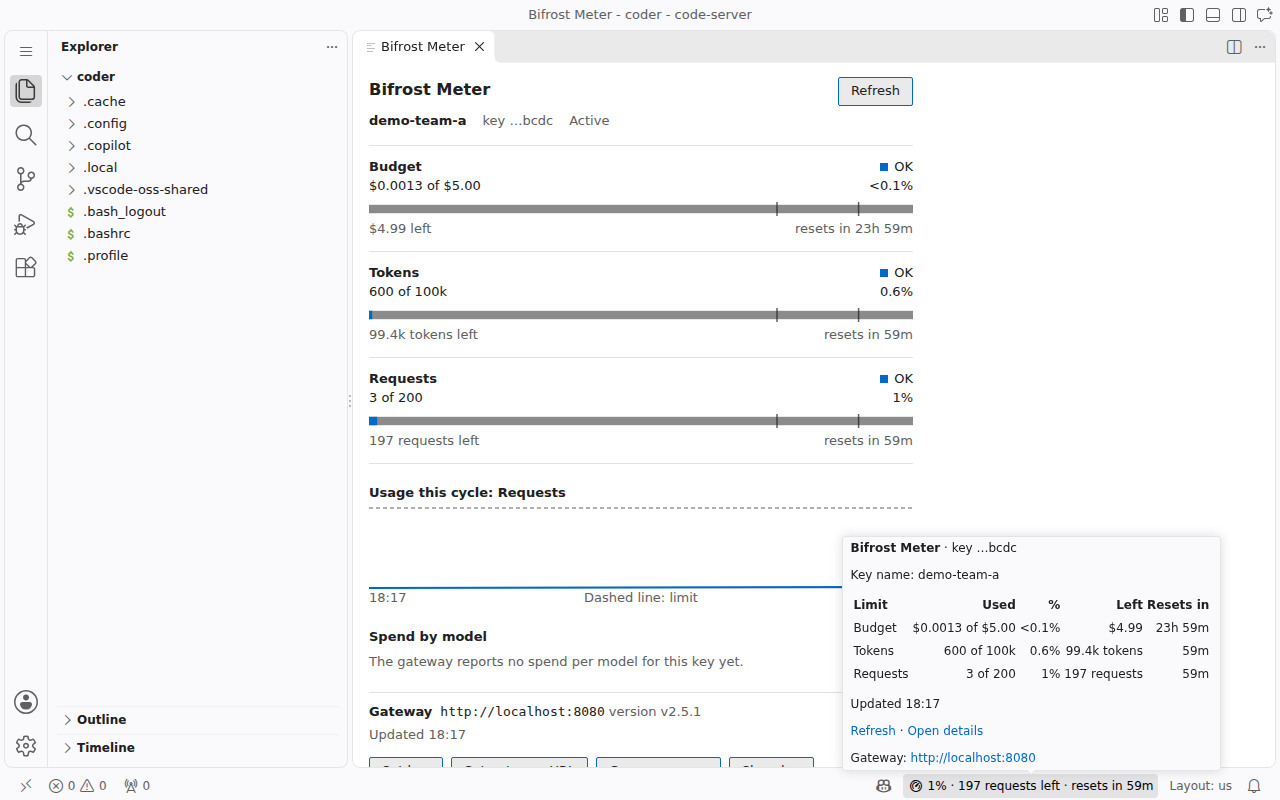
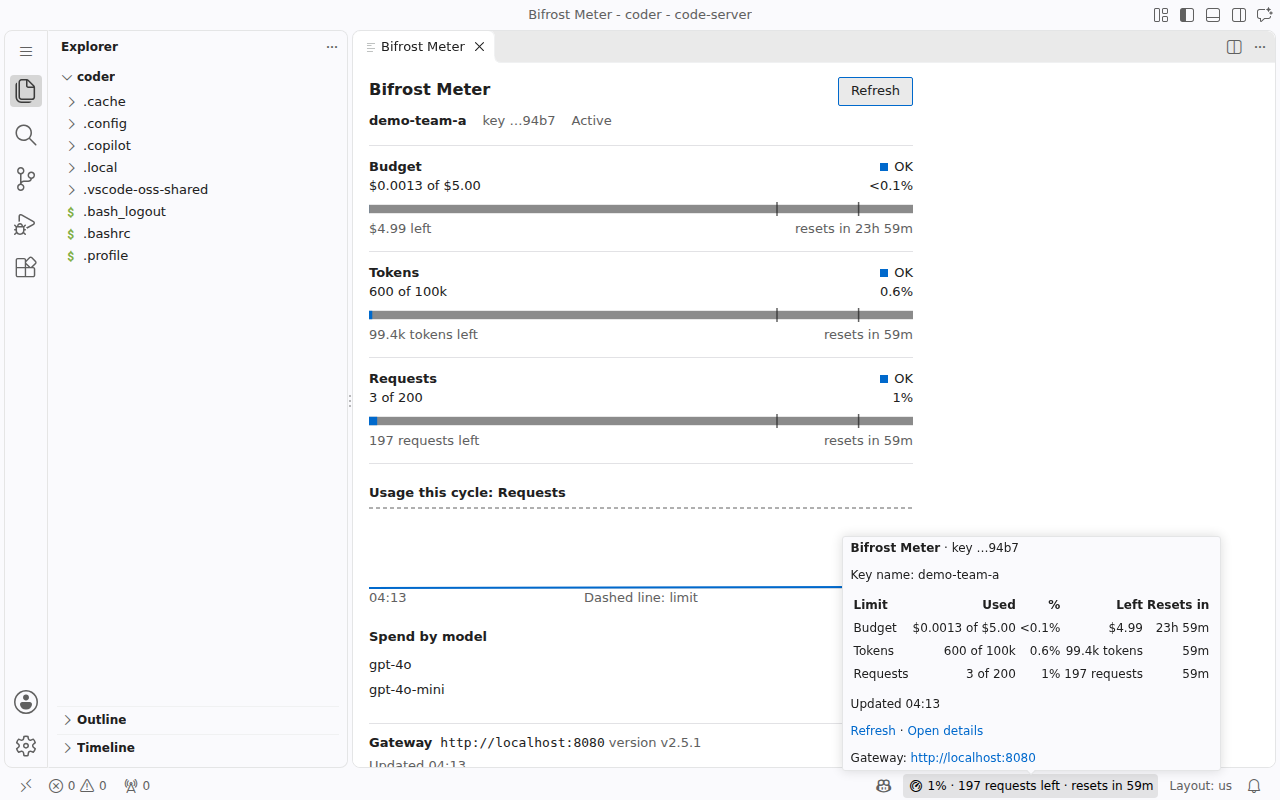
Set version 0.1.1 and record the unit, contract, end-to-end and demo runs

Changed region(s): [[0.2812, 0.8125, 0.5938, 0.9688], [0.4062, 0.125, 0.4688, 0.1562]]

diff --git a/docs/TEST-RESULTS.md b/docs/TEST-RESULTS.md
@@ -18,18 +18,18 @@ container: `npm ci`, lint, type check, unit tests, build, `npm run package`.
 Lint, type check, unit tests (vitest), production build and `.vsix` package, with no Docker and no network. Runs on every
 change.
 
-- Date: 2026-11-14
-- Result: **352 passed, 0 failed** in 19 test files; `bifrost-meter.vsix` 244.9 KB (10 files), version 0.1.0
+- Date: 2026-11-15
+- Result: **378 passed, 0 failed** in 19 test files; `bifrost-meter.vsix` 245.3 KB (10 files), version 0.1.1
 
 ## Contract (`npm run test:contract`)
 
 Runs the extension's own quota client, and the bundled MCP server through the official SDK client over stdio, against the pinned official gateway image and the mock upstream from `demo/`, on a
 free `127.0.0.1` port, then removes the stack (`docker compose down -v`). Without Docker the suite is skipped with a message.
 
-- Date: 2026-11-14
+- Date: 2026-11-15
 - Gateway: `maximhq/bifrost@sha256:5ec9873acaf1687556b6e4dd854b92b539d9debf87a5a683b66338648b84d3c8` (`v2.5.1`)
-- Result: **10 passed, 0 failed**; 64 s in total for the v0.1.0 release check, including the 200-read latency test below
-  (earlier runs: 57 s, 67 s and 71 s, of which about 41 s was starting and seeding the gateway)
+- Result: **11 passed, 0 failed**; 56 s in total for the v0.1.1 check, including the 200-read latency test below
+  (earlier runs: 57 s, 64 s, 67 s and 71 s, of which about 40 s was starting and seeding the gateway)
 
 | Test | Result |
 |---|---|
@@ -40,6 +40,7 @@ free `127.0.0.1` port, then removes the stack (`docker compose down -v`). Withou
 | 403 "expired" for a key past its expiry | passed |
 | Budget, token and request counters move after 3 mock requests; spend per model shows a positive amount for each model used | passed |
 | After an admin override (3 on a budget of 2) the meter's budget limit is the enforced 5, while `max_limit` stays 2 | passed |
+| Calendar-aligned monthly and quarterly keys report `last_reset` on the UTC boundary, and the meter's next reset is the next boundary; a rolling monthly key resets 30 days after `last_reset` | passed |
 | MCP: `tools/list` shows `get_budget_status`; `tools/call` returns the same limits as the quota endpoint for the same key, without the key in the result | passed |
 | MCP: an unknown key gives a tool error ("Key rejected"), not a crash | passed |
 | 200 sequential quota reads all return 200 (latency below) | passed |
@@ -53,6 +54,7 @@ same pinned gateway and host as the contract run above (2026-11-14, a shared bui
 |---|---|---|---|
 | 200 | 6.9 ms | 12.2 ms | 96.2 ms |
 | 200 (v0.1.0 release check) | 7.1 ms | 51.3 ms | 151.1 ms |
+| 200 (v0.1.1 check, 2026-11-15) | 6.8 ms | 13.0 ms | 71.7 ms |
 
 The median holds steady between runs; the tail depends on other work on the shared host.
 
@@ -67,6 +69,17 @@ check then opened the link without typing anything: the status bar showed the re
 (`1% · 197 requests left · resets in 59m`) and moved to `3% · 193 requests left` within 20 seconds of mock traffic.
 `demo/run.sh stop` left no demo containers.
 
+Run again on 2026-11-15 from a clean copy, on a host where port 8080 was already taken, with nothing but Docker on the
+path. Before ADR 0014 the script stopped with Docker's "port is already allocated" error. Now it reported that the demo
+gateway uses 8081 and printed the editor link after 75 s, including the build of the extension (45 s on a second run).
+With a traffic key name that is not in the config, the start stopped with a message and left no containers.
+
+A Playwright check then opened the printed link without typing anything and watched one budget cycle of the demo key
+($1.00, reset every 5 minutes, `demo/run.config.json`). The note from `demo/editor-welcome.md` was open in the editor.
+The status bar read `8% · $0.91 left · resets in 4m`, then climbed with the mock traffic: warning colour and one
+notification at 78% ("Budget: 78% used, $0.21 left."), critical at 93%, `Budget used up · resets in 1m`, and
+`8% · $0.91 left · resets in 4m` again after the gateway reset the budget.
+
 ## End to end (`npm run test:e2e`)
 
 Builds and packages the extension, then starts the demo gateway, the mock upstream and code-server with the packaged
@@ -75,11 +88,11 @@ default URL, `http://localhost:8080`. Playwright (Chromium) drives the editor th
 key prompt, the theme picker and the status bar. Expected numbers are computed from the live quota response with the
 extension's own code. The stack is removed afterwards (`docker compose down -v`).
 
-- Date: 2026-11-14
+- Date: 2026-11-15
 - Editor: `codercom/code-server@sha256:09565f9e07f5624554e295e8bab0e2fec4a7c533eb3cff459ed6596a4d3d7c1c` (`4.145.2`)
 - Gateway: the same pinned image as the contract suite
-- Result: **9 passed, 0 failed**; 1.8 min for the v0.1.0 release check (earlier: 2.8 min after the design review pass
-  of ADR 0009). The extension declares
+- Result: **9 passed, 0 failed**; 1.4 min for the v0.1.1 check (earlier: 1.8 min for the v0.1.0 release check, 2.8 min
+  after the design review pass of ADR 0009). The extension declares
   `engines.vscode` `^1.90.0` and is compiled against the 1.90 API; this run installs it in code-server 4.145.2
 
 | Test | Result |

diff --git a/docs/BUILD-LOG.md b/docs/BUILD-LOG.md
@@ -18,3 +18,4 @@ One line per step.
 - 2026-11-14: Slide deck: 12 slides generated from `deck/slides.yaml` (problem, solution, demo, architecture, implementation, MCP, PS04 requirements, tests, how AI is used, limits), rendered to `docs/deck.pdf` and checked as images; README links the slides (ADR 0013).
 - 2026-11-14: Deck revised: a slide with the dated search of the VS Code Marketplace, Open VSX and GitHub, the PS04 requirements merged into the tests slide, the demo slide matches the one-command demo (no key to paste) and points to the video in the release, and the problem slide cites the quota endpoint instead of a personal claim.
 - 2026-11-14: v0.1.0 release check: clean clone in the pinned Node 22 container (npm ci, lint, type check, 352 unit tests, package), contract 10 passed, end to end 9 passed, history scanned with gitleaks (no leaks).
+- 2026-11-15: Review of v0.1.0 from a clean copy: `demo/run.sh` uses the next free port when 8080 or 8443 is taken, removes its containers after a failed start, seeds a $1.00 budget that resets every 5 minutes so a full cycle is visible, and opens a short note in the editor; reset times follow the gateway's window rules (30-day month, 90-day quarter, calendar-aligned keys, fiscal quarter start), measured on the pinned gateway; three additive quota fields proposed in `docs/UPSTREAMING.md`; unit 378 passed, contract 11 passed, end to end 9 passed; version 0.1.1 (ADR 0014).
